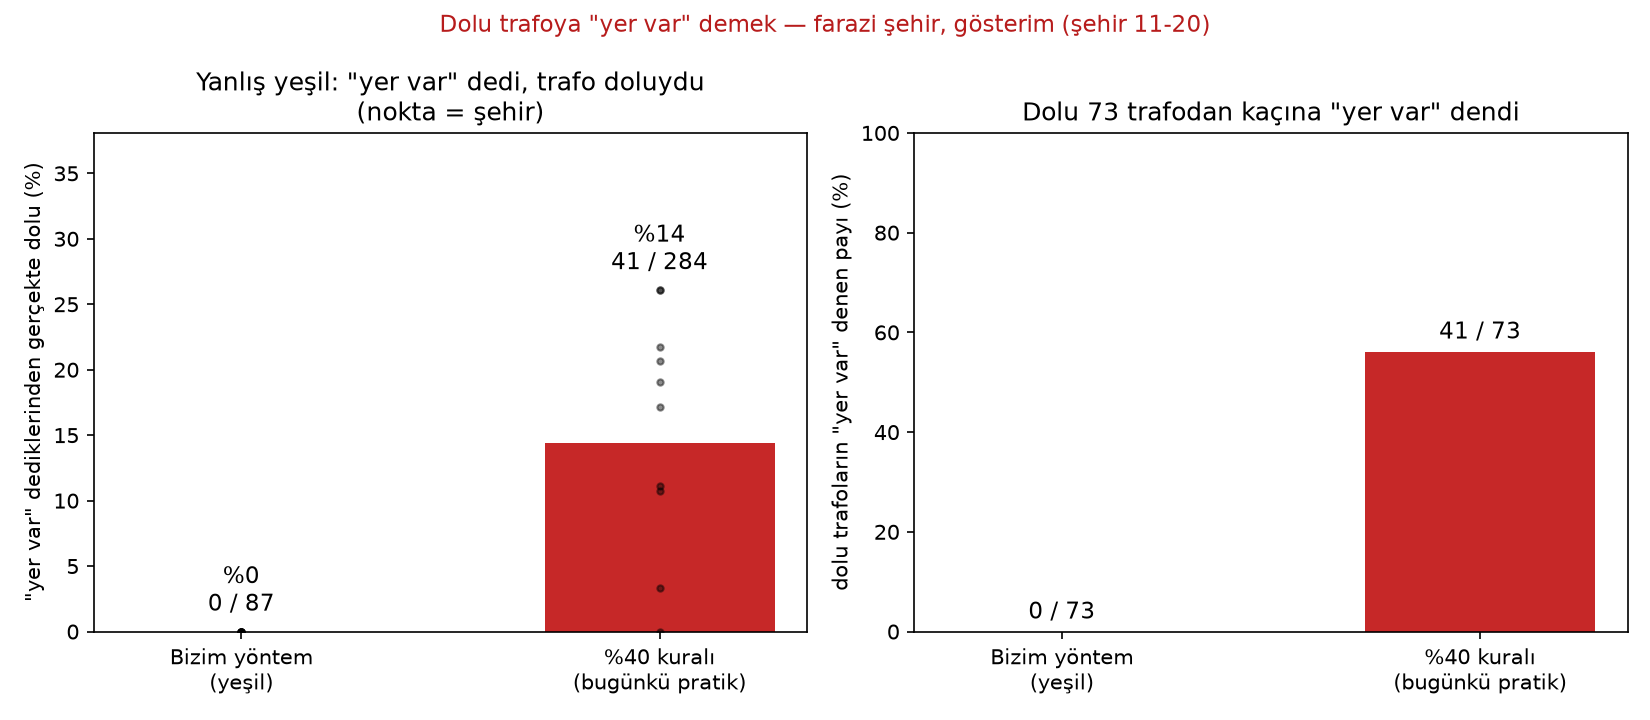
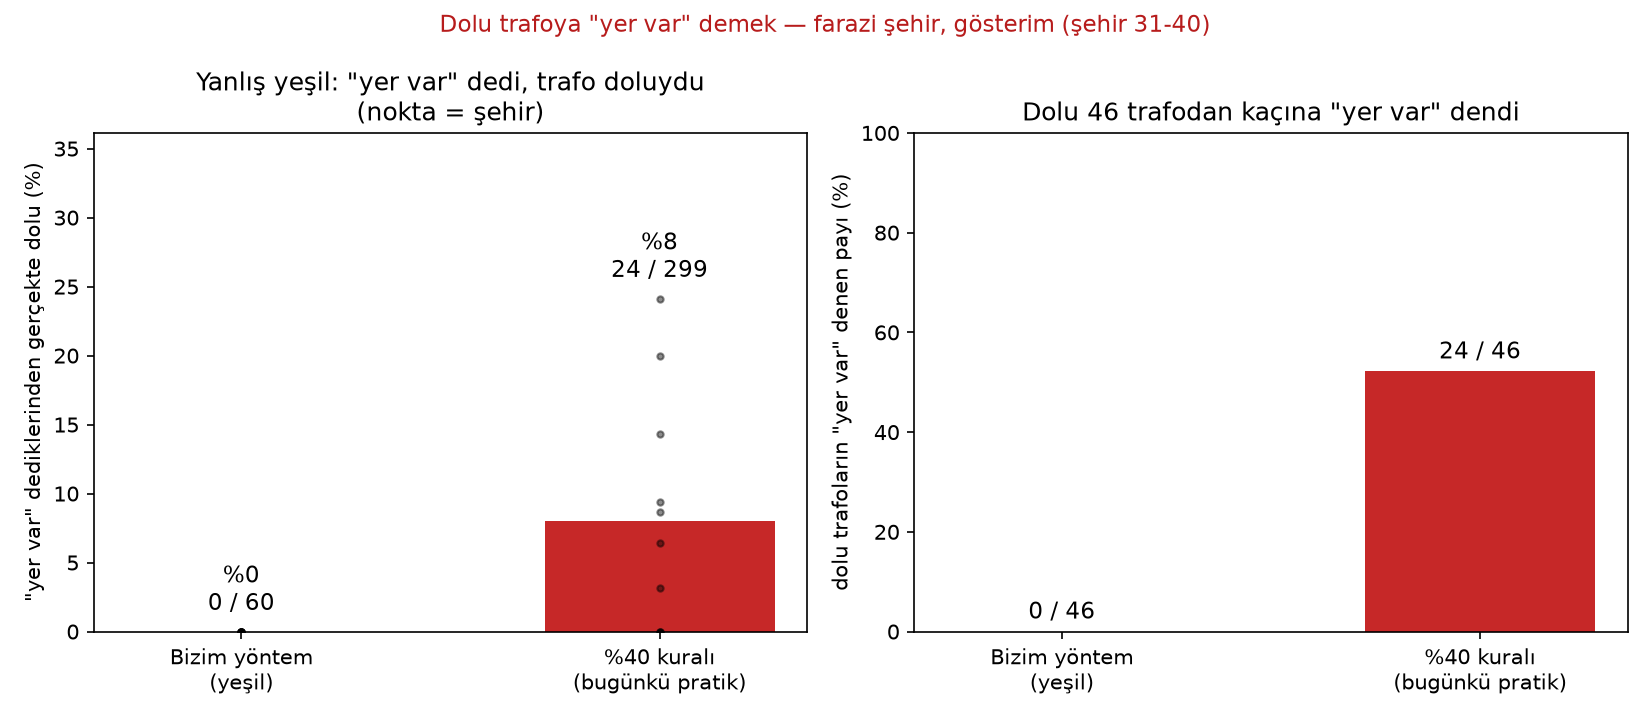
sunum: akış yük haritası öne (KARAR 10:16) — 8 ekran, slayt sırası sorun → yük → neden inanılır → panel → pilot/maliyet → jüri; yük rakamları B-Y2 / 41–50 (12/12, 124 uyarı; 211'de 0; %11,4 / %23,9, +%11), model cümlesi ve jüri 14 (KARAR 10:43); '%27 → %19' ve '%4' kalktı; kilit grafik 31–40 ile yen

diff --git a/docs/sunum/ekranlar.md b/docs/sunum/ekranlar.md
@@ -1,47 +1,53 @@
-# Sunum — 7 ekran (haritanın içinde)
+# Sunum — 8 ekran (haritanın içinde)
 
-Biçim kararı: Volkan 17:32 (can.md BİLGİ, civan.md). Sunum Civan'ın harita uygulamasının içinde 7 kısa ekran (0–6). Her ekranda tek cümle, tek görsel, en fazla bir rakam. Teknik terim yok (arketip, kVA, P10 sunum dilinde geçmez). **PDF yedeği bu metinden.**
+Biçim kararı: Volkan 17:32 (can.md BİLGİ, civan.md). Sunum Civan'ın harita uygulamasının içinde 8 kısa ekran (0–7). Her ekranda tek cümle, tek görsel, en fazla bir rakam. Teknik terim yok (arketip, kVA, P10 sunum dilinde geçmez). **PDF yedeği bu metinden.**
 
+- Akış **yük haritası öne** (Volkan 09:43; sıra KARAR 10:16): sorun (0–3) → yük haritası (4) → neden inanılır (5) → panel güvenli uçlar (6) → pilot ve maliyet (7) → jüri cevapları ([konusma-notu.md](konusma-notu.md)). Civan'ın pitch şablonu aynı sıraya uyar (civan.md 09:43).
+- Rakam kaynağı `dashboard/icerik.json` (KARAR 09:43). Yük rakamları tepe modeli B-Y2, hiç bakılmamış sınav şehirleri 41–50; panel rakamları 31–40; ikisi de üretici 1.5, farazi, gösterim (KARAR 10:26, 10:43).
 - Rakamların etiketi her ekranda yazılı; ayrıntılı kaynak [slaytlar.md](slaytlar.md) "Kaynak slaydı".
-- Konuşma: BUILD taslağı [../konusma-notu-taslak.md](../konusma-notu-taslak.md); dürüstlük cümleleri [konusma-notu.md](konusma-notu.md).
-- Süre hedefi 6 dk [Yorum].
+- Konuşma: BUILD taslağı [../konusma-notu-taslak.md](../konusma-notu-taslak.md) (eski sıra); dürüstlük cümleleri [konusma-notu.md](konusma-notu.md).
+- Süre hedefi 6–7 dk [Yorum].
 
 | Ekran | Cümle (ekranda yazan) | Görsel | Tek rakam ve etiketi | Süre |
 |---|---|---|---|---|
 | **0 Açılış** | "Bu sokakta kaç ev daha çatısına güneş paneli takabilir? Kıb-Tek bilmiyor." | Bir sokak, çatılar | — | 20 sn |
 | **1 Kıb-Tek** | "Kıb-Tek, Kuzey Kıbrıs'ta elektriği üreten ve evlere dağıtan devlet kurumu." | Ada haritası | — | 15 sn |
-| **2 Mahalle şebekesi** | "Her mahallenin köşesinde gri bir kutu (trafo) var; elektriğin evden önceki son durağı. Kıb-Tek bu kutuları izlemiyor; dolu mu boş mu bilmiyor. Bu yüzden temkinli: evler sırada bekliyor." | Direk, kutu, evler | **~2.670 bekleyen başvuru** [Kaynaklı: KTTO raporu, Mart 2023; adres doğrulanmadı] | 50 sn |
-| **3 Fikrimiz** | "Her kutuya cihaz takmak çok pahalı. Birkaçını ölçüyoruz, gerisini tahmin ediyoruz; tahminin ne kadar emin olduğunu da söylüyoruz." | "Noktalar çoğalıyor": önce bir ölçülen trafo, sonra birkaçı, sonra tahmin adaya yayılıyor (ölçülen dolu, tahmin soluk; yeşil / sarı / kırmızı; "gösterim") — 3 → 5 geçişi | İngiltere aynı yöntemle ~%80 tuttu [Kaynaklı: Ofgem, WPD LV Templates 2015] | 45 sn |
-| **4 Neden inanılır** (güven merdiveni) | "Kıbrıs'ı ölçemiyoruz. Yöntemi ölçebildiğimiz her yerde sınadık." | Dört basamak; manşet büyük | **İspanya, 29 gerçek trafo: %25 → %10** (yalnız müşteri sayısıyla → fatura toplamıyla, ortanca hata) [Hesap: PR #10, EDP Oviedo 2018, CC BY] | 2 dk |
-| **5 Canlı harita** | "Bir kutuya tıklayın: yaklaşık N ev daha sığar (A–B); yeşilse ilk 2 başvuru güvenle. Bugünkü kural ne diyor, yanında." (N = `kac_ev_orta`, A–B = karamsar–iyimser, "%80 ihtimalle A–B ev"; "en az" yazılmaz — karar masası 19:13) | Canlı harita; yanında kilit grafik [kilit_yanlis_yesil.png](kilit_yanlis_yesil.png) | **Dolu trafoya "yer var": bugünkü %40 kuralı 46 dolu trafonun 24'üne, biz hiçbirine** (yanlış yeşil: biz 0/60) [Hesap: sınav şehirleri 31–40, üretici 1.5; karar masası Mac koşusu (volkan.md KARAR 01:20) ve ADR-0019 ölçümü (docs/log/2026-11-01-volkan-panel-guven-kapisi.md); `dashboard/icerik.json`] — gösterim. Kilit grafik PNG hâlâ eski şehirlerden (11–20): 1.5 ile yeniden üretilecek, **BEKLİYOR** | 1 dk |
-| **6 Pilot** | "Harita için Kıb-Tek'ten yeni veri istemiyoruz: abone sayısı ve fatura toplamı zaten elinde. Pilotta ilk ölçeceğimiz şey trafonun çıkış gerilimi; o tek ölçüm 'dolu' dediğimiz trafolardaki yanılmayı %27'den %19'a indirir." (karar masası 20:47) | Takvim + cihaz | **Ada geneli için 120–170 trafo** [Hesap: araştırma günlüğü §7; İngiltere'de ölçülen pay %2,6]; cümledeki %27 → %19 [Hesap: bilginin değeri denemesi, farazi şehir 11–20, kusursuz bilgi üst sınırı; docs/log/2026-10-31-volkan-faz3.md] | 30 sn |
+| **2 Mahalle şebekesi** | "Her mahallenin köşesinde gri bir kutu (trafo) var; elektriğin evden önceki son durağı. Kıb-Tek bu kutuları izlemiyor; dolu mu boş mu bilmiyor. Bu yüzden temkinli: evler sırada bekliyor." | Direk, kutu, evler | **~2.670 bekleyen başvuru** [Kaynaklı: KTTO raporu, Mart 2023; adres doğrulanmadı] | 45 sn |
+| **3 Fikrimiz** | "Her kutuya cihaz takmak çok pahalı. Birkaçını ölçüyoruz, gerisini tahmin ediyoruz; her kutu için iki şey söylüyoruz: ne kadar dolu, güneşe ne kadar yer var. Ne kadar emin olduğumuzu da." | "Noktalar çoğalıyor": önce bir ölçülen trafo, sonra birkaçı, sonra tahmin adaya yayılıyor (ölçülen dolu, tahmin soluk; "gösterim") — 3 → 5 geçişi | İngiltere aynı yöntemle ~%80 tuttu [Kaynaklı: Ofgem, WPD LV Templates 2015] | 40 sn |
+| **4 Yük haritası** | "Yılın en yoğun saatinde (çoğunlukla yaz akşamı) hangi kutu dolu? Dolu olanı kaçırmadan, önce nereye bakacağınızı söylüyoruz." | Canlı harita, yük katmanı: doluluk renkleri, "ön" etiketi, bir kutuya tıklayınca akşam gerilimi | **%80'den dolu 12 kutunun 12'si yakalandı** (bedeli: her 10 uyarıdan 1'i gerçek; "yeterli" dediğimiz 211 kutunun hiçbiri akşam 207 voltun altına inmedi) [Hesap: sınav şehirleri 41–50 (hiç bakılmamış), üretici 1.5, ölçülmeyen 280 trafo, tepe modeli B-Y2; docs/log/2026-11-01-can-eszamanlilik.md; `dashboard/icerik.json`] — gösterim | 1 dk |
+| **5 Neden inanılır** (güven merdiveni) | "Kıbrıs'ı ölçemiyoruz. Yöntemi ölçebildiğimiz her yerde sınadık." | Dört basamak; manşet büyük | **İspanya, 29 gerçek trafo: %25 → %10** (öğlen yükü; yalnız müşteri sayısıyla → fatura toplamıyla, ortanca hata) [Hesap: PR #10, EDP Oviedo 2018, CC BY] | 1,5 dk |
+| **6 Panel: güvenli uçlar** | "Bir kutuya tıklayın: yaklaşık N ev daha sığar (A–B); yeşilse ilk 2 başvuru güvenle. Bugünkü kural ne diyor, yanında." (N = `kac_ev_orta`, A–B = karamsar–iyimser, "%80 ihtimalle A–B ev"; "en az" yazılmaz — karar masası 19:13) | Canlı harita, panel katmanı; yanında kilit grafik [kilit_yanlis_yesil.png](kilit_yanlis_yesil.png) | **Dolu trafoya "yer var": bugünkü %40 kuralı 46 dolu trafonun 24'üne, biz hiçbirine** (yanlış yeşil: biz 0/60) [Hesap: sınav şehirleri 31–40, üretici 1.5; karar masası Mac koşusu (volkan.md KARAR 01:20) ve ADR-0019 ölçümü (docs/log/2026-11-01-volkan-panel-guven-kapisi.md); `dashboard/icerik.json`] — gösterim | 1 dk |
+| **7 Pilot ve maliyet** | "Harita için Kıb-Tek'ten yeni veri istemiyoruz: abone sayısı ve fatura toplamı zaten elinde. Pilotta ilk ölçeceğimiz şey trafonun çıkış gerilimi." | Takvim + cihaz | **120–170 trafo, ~2,2–3,2 milyon TL: her trafoya cihaz takmanın yüzde biri** [Hesap: araştırma günlüğü §7; docs/log/2026-11-01-can-maliyet.md] | 40 sn |
 
-## Ekran 4: dört basamak (ekranda kısa, konuşmada açılır)
+Eski rakamlar kullanılmaz: "%27 → %19" (eski yanlış kırmızı ölçüsü; ADR-0017'den beri kırmızı yok, KARAR 10:16), yük için %5,8 / 16/16 / 87 uyarı / 233 (eski model ve şehirler, KARAR 10:26).
+
+## Ekran 4: yük haritası (ekranda kısa, konuşmada açılır)
+- Yılın tepesi "ön" etiketli: deneme şehrinde hata ortanca %11,4, en kötü onda birlik dilimde %23,9; tahmin gerçeğin ortanca %11 üstünde (güvenli yön), gerçek hiçbir trafoda bandın üstüne çıkmadı [Hesap: ekran 4'teki küme].
+- Model cümlesi (KARAR 10:43): "Tepe modelimiz Kıbrıs evlerinin gerçek sıcaklık duyarlılığını kullanır; deneme şehirlerinde bu yüzden yaklaşık %11 fazla tahmin eder, yani güvenli tarafta; gerçek bahar verisinde hata %15." [eğim: 20 Kıbrıs evi, docs/log/2026-11-01-can-eszamanlilik.md; gerçek: İspanya Mayıs tepesi %15,4 / %36,1]
+- Bedel: temkinli uç çok uyarı veriyor (124 uyarının 12'si gerçek); harita ret değil "önce bak" listesi.
+
+## Ekran 5: dört basamak (ekranda kısa, konuşmada açılır)
 
 Hepsi "hiç model kullanmadan yapılan basit hesaba göre ne kadar iyi" diye anlatılır.
 
-1. **Farazi Kıbrıs şehri** (cevabını bildiğimiz deney; gösterim, üst sınır).
-   - Faturayla öğlen yükü hatası ortanca %11,3, en kötü onda birlik dilimde %28 [Hesap: sınav şehirleri 31–40, üretici 1.5; karar masası Mac koşusu (volkan.md KARAR 01:20) ve ADR-0019 ölçümü (docs/log/2026-11-01-volkan-panel-guven-kapisi.md); `dashboard/icerik.json`].
-   - Cümle: "Deneme şehrinde hata, gerçek veride (İspanya) gördüğümüzle aynı seviyede." (Eski 11–20 kıyası %3,8 / %20,6 kullanılmaz; üretici 1.5'te faturasız koşu yok.)
-2. **İspanya** (manşet): %25 → %10, gerçek veri. Cümle (karar masası 22:21): "Kıb-Tek'in zaten elindeki fatura toplamı girince gerçek trafolarda hata %25'ten %10'a iniyor; biz bunun üstüne ne kadar emin olduğumuzu ve panelin sığıp sığmadığını söylüyoruz." "Modelimiz indirdi" denmez (%10 faturanın değeri). Parantez: "(aralığımız İspanya'da %82,1 tutuyor)" [gerçek veri, İspanya 28 trafo; docs/log/2026-11-01-volkan-faz7-kalibrasyon.md].
+1. **İspanya, öğlen yükü** (manşet): %25 → %10, gerçek veri. Cümle (karar masası 22:21): "Kıb-Tek'in zaten elindeki fatura toplamı girince gerçek trafolarda hata %25'ten %10'a iniyor; biz bunun üstüne ne kadar emin olduğumuzu ve panelin sığıp sığmadığını söylüyoruz." "Modelimiz indirdi" denmez (%10 faturanın değeri). Parantez: "(aralığımız İspanya'da %82,1 tutuyor)" [gerçek veri, İspanya 28 trafo; docs/log/2026-11-01-volkan-faz7-kalibrasyon.md].
+2. **İspanya, yılın tepesi** (yük): Mayıs tepesinde hata ortanca %15, en kötü onda birlik dilimde %36 [gerçek veri: %15,4 / %36,1; docs/log/2026-11-01-volkan-yuk-tepe-on.md]; Kıb-Tek'in tepe kaydı gelince daralır.
 3. **İngiltere** (gerilim): "6 gerçek hattın 5'inde ölçülen yükselme hesabın güvenli sınırının altında; birinde küçük gördük → canlıda yeşil önce pilotla sınanır" [Hesap: PR #11 + docs/log/2026-10-31-volkan-faz3-ukpn-geritest.md; UKPN, CC BY] (karar masası 18:46, ADR-0011).
-4. **Kıbrıs pilotu**: doğruluğu pilot söyler.
+4. **Farazi Kıbrıs şehri** (cevabını bildiğimiz deney; gösterim, üst sınır): faturayla öğlen yükü hatası ortanca %11,3, en kötü onda birlik dilimde %28 [Hesap: sınav şehirleri 31–40, üretici 1.5; `dashboard/icerik.json`]. Cümle: "Deneme şehrinde hata, gerçek veride (İspanya) gördüğümüzle aynı seviyede." Kıbrıs'taki doğruluğu pilot söyler (ekran 7).
 
-## Ekran 5: sayının dili (karar masası 19:13)
+## Ekran 6: sayının dili (karar masası 19:13)
 - Manşet orta sayı: "yaklaşık 4 ev"; yanında bant "(2–7)", açılımı "%80 ihtimalle 2–7 ev" [Yorum: örnek değer, rakam değil]. "En az … ev" hiçbir yerde yazılmaz: bandın alt ucu taban değil, gerçek trafoların ~%10–15'inde altına düşer.
 - Vaat renkte: yeşilde "ilk 2 başvuru güvenle sığar (≥ %98)"; sarıda "önce ölç"; kırmızıda "ölç ya da güçlendir". Sarı ve kırmızıda sayı yalnız bant.
 
-## Ekran 5: kilit cümle
+## Ekran 6: kilit cümle
 "Dolu trafoya 'yer var' demek en pahalı hata. Bugünkü %40 kuralı 46 dolu trafonun 24'üne 'yer var' diyor. Bizim 60 yeşilimizin hiçbiri dolu değil." [Hesap: sınav şehirleri 31–40, üretici 1.5; karar masası Mac koşusu (volkan.md KARAR 01:20) ve ADR-0019 ölçümü (docs/log/2026-11-01-volkan-panel-guven-kapisi.md); `dashboard/icerik.json`]; gösterim
 
-Grafik dosyası (kilit_yanlis_yesil.png) eski şehirlerden (0/87 ↔ 41/284, sınav 11–20); üretici 1.5 şehirleriyle yeniden üretilecek — **BEKLİYOR**.
-
-## Ekran 5: söylenecek bedel
+## Ekran 6: söylenecek bedel
 Rakamlar [Hesap: sınav şehirleri 31–40, üretici 1.5; karar masası Mac koşusu (volkan.md KARAR 01:20) ve ADR-0019 ölçümü (docs/log/2026-11-01-volkan-panel-guven-kapisi.md); `dashboard/icerik.json`]; gösterim. Eski 11–20 rakamları (yeşil %25, sarı %62, kırmızıların %27'si, 87 yeşil, 0/21) kullanılmaz.
 - Yeşil az ve bu bilerek: ölçülmeyen 280 trafonun 60'ı yeşil, hiçbiri gerçekte dolu değil. — **0/60**
 - Trafoların çoğunda emin değiliz: karar başvuru gelince verilir ya da önce ölçülür. — **renksiz %76**
 - "Büyük olasılıkla dolu" uyarısı ret değil, "ölç ya da güçlendir": 22 uyarının 15'i gerçekten dolu. — **15/22 (%68)**
-- Kaç ev hatası üretici 1.5 şehirlerinde raporlanmadı (eski 11–20: 2 ev) — **BEKLİYOR**, eski rakam kullanılmaz
+- Kaç ev hatası: 31–40'ta ortası 2 ev [Hesap: Can, Windows, `sinav.py faz3 --aralik 31-40`, n = 234; dashboard'da yok, karar masası teyit etmeden kullanılmaz]; eski 11–20 rakamı kullanılmaz
 
 ## PDF yedeği
-Aynı 7 ekran, her biri bir sayfa: cümle + görselin ekran görüntüsü + rakam ve etiketi. Ekran görüntüleri Civan'ın uygulamasından (Faz 4); son sayfa kaynaklar ([slaytlar.md](slaytlar.md) "Kaynak slaydı").
+Aynı 8 ekran, her biri bir sayfa: cümle + görselin ekran görüntüsü + rakam ve etiketi. Ekran görüntüleri Civan'ın uygulamasından (Faz 4); son sayfa kaynaklar ([slaytlar.md](slaytlar.md) "Kaynak slaydı").

diff --git a/docs/sunum/slaytlar.md b/docs/sunum/slaytlar.md
@@ -1,6 +1,8 @@
 # Slayt listesi (iskelet)
 
-Hikâye: **güven merdiveni** (karar masası 17:00). Tek cümle: *"Kıbrıs'ı ölçemiyoruz; yöntemi ölçebildiğimiz her şeyde kanıtlıyoruz, sonra uyguluyoruz."* Dört basamak, her birinde tek iddia + tek rakam, hepsi "saf tahmine göre ne kadar iyi" cinsinden. Manşet rakam: **İspanya %25 → %10.**
+Akış: **yük haritası öne** (Volkan 09:43; sıra KARAR 10:16): sorun → yük haritası (doluluk, yılın tepesi "ön", akşam 207 V) → neden inanılır (İspanya öğlen %25 → %10, Mayıs tepesi %15, bant %82) → panel güvenli uçlar (0/60, 15/22, renksiz %76, 24/46 ↔ 0) → pilot ve maliyet → jüri cevapları. Tek cümle: *"Kıbrıs'ı ölçemiyoruz; yöntemi ölçebildiğimiz her şeyde kanıtlıyoruz, sonra uyguluyoruz."* Her slaytta tek iddia + tek rakam. Manşet rakam: **İspanya %25 → %10.**
+
+Rakam kaynağı `dashboard/icerik.json` (KARAR 09:43). Yük rakamları yeni tepe modeli B-Y2, hiç bakılmamış sınav şehirleri 41–50 (KARAR 10:26, 10:43); panel rakamları 31–40. İkisi de üretici 1.5, farazi, **gösterim**. Eski yük rakamları (%5,8 / %15,1; 16/16, 87 uyarı; "yeterli" 233) ve "%27 → %19" (eski yanlış kırmızı ölçüsü, KARAR 10:16) kullanılmaz.
 
 Süre hedefi 5–7 dk; dakika sütunu kaba [Yorum].
 
@@ -8,18 +10,16 @@ Süre hedefi 5–7 dk; dakika sütunu kaba [Yorum].
 |---|---|---|---|---|
 | 1 | Sorun | Kuzey'de çatı güneşi başvuruları bekliyor; Kıb-Tek mahalle trafolarını göremiyor | ~2.670 bekleyen başvuru, çoğu 5–8 kW; alçak/orta gerilimde izleme sistemi yok [Kaynaklı: KTTO raporu, Mart 2023; adres doğrulanmadı] (karar masası 17:38; bulunursa değişir) | 0,5 |
 | 2 | Neden şimdi | Güney bağladı, şimdi üretimi kısıyor | 2025'te dağıtıma bağlı güneşin %47,44'ü kısıldı, Ocak–Mayıs 2026 %65 [Kaynaklı: pv-magazine.com 13.01.2026 ve 15.06.2026] | 0,5 |
-| 3 | Fikir | Az trafoyu ölç, gerisini şablonla tahmin et (İngiltere'nin yöntemi) | İngiltere 824 trafoyu (%2,6) ölçüp gerisini ~%80 doğrulukla tahmin etti; başka şirketlerin 284 trafosunda %80–90 [Kaynaklı: Ofgem WPD LV Templates raporları 2013, 2015] | 0,75 |
-| 4 | Bizim uyarlamamız: fotoğraf değil film | Kurulumcu gerilimi tek noktada, tek gün ölçüyor; biz trafonun gün ve mevsim boyu davranışını tahmin edip "kaç ev daha eklenince sınıra gelir"i önceden söylüyoruz | Hedef: ilkbahar öğlen en düşük yük (11–14) ve hat ucu gerilimi; planlama sınırı 259 V, inverter 264 V'ta kapanır [Kaynaklı: CLAUDE.md / ADR-0002] | 0,75 |
-| 5 | Güven merdiveni — basamak 1: farazi şehir (kontrollü gerçek) | Cevabı bildiğimiz şehirde yöntem çalışıyor | Öğlen yük hatası ortanca / en kötü onda birlik dilim (faturalı): %11,3 / %28; yanında İspanya %10 [Hesap: sınav şehirleri 31–40, üretici 1.5; karar masası Mac koşusu (volkan.md KARAR 01:20) ve ADR-0019 ölçümü (docs/log/2026-11-01-volkan-panel-guven-kapisi.md); `dashboard/icerik.json`] — **üst sınır (gösterim)**, manşet İspanya (karar masası 17:38). Eski 11–20 rakamları (%3,8 / %8,0, %20,6 / %50,7) ve %8,6 kullanılmaz | 0,5 |
-| 6 | Basamak 2: İspanya (yük, gerçek veri) — **MANŞET** | Hiç görmediğimiz 29 gerçek trafoda, Kıb-Tek'in zaten elinde olan abone sayısı + faturayla | Yalnız müşteri sayısıyla ~%25, faturayla ~%10 ortanca hata [Hesap: PR #10, docs/log/2026-10-31-volkan-edp-gercek.md; veri Arboleya vd. 2019, CC BY] | 0,75 |
-| 7 | Basamak 3: İngiltere (gerilim, gerçek veri) | Gerilim hesabımız gerçek hatlarda tutuyor; tutmadığı yer yüzünden yeşil önce pilotla sınanır | 6 gerçek hattın 5'inde ölçülen yükselme hesabın güvenli sınırının altında; birinde (Bancroft, panelli kol) küçük gördük [Hesap: PR #11 + docs/log/2026-10-31-volkan-faz3-ukpn-geritest.md; veri UKPN 2015, CC BY] (karar masası 18:46) | 0,5 |
-| 8 | Basamak 4: Kıbrıs pilotu (saha) | Kıbrıs'taki doğruluğu pilot söyler; ilk ölçülecek şey trafonun çıkış gerilimi | Çıkış gerilimi bilinince "dolu" dediğimiz trafolardaki yanılma %27 → %19 [Hesap: bilginin değeri denemesi, farazi 11–20, kusursuz bilgi üst sınırı; docs/log/2026-10-31-volkan-faz3.md] (karar masası 20:47; ekran 6). 120–170 trafo ölç (adadaki ~6.400 trafonun ~%2'si) [Hesap: araştırma günlüğü §7; ~6.400 trafo Güney'den vekil, Kıb-Tek sayısı BULAMADIM]; taşınabilir cihazla ~2,2–3,2 milyon TL (~40–57 bin €, işçilik dahil), ilkbaharda [Hesap: docs/log/2026-11-01-can-maliyet.md; aşağıda "Maliyet"; eski "~20 bin € + pens" yalnız donanımdı]; kör test 10 trafo, başarı: gerçek kırmızıların ≥ %90'ı yakalanır, öğlen yük hatası ±%20 [Yorum: validation.md] | 0,5 |
-| 9 | Canlı harita | Her trafo yeşil / sarı / kırmızı, "ölçülmedi" etiketiyle | Faz 4 paneli (Civan); farazi şehirde "SAHTE VERİ / gösterim" yazısı — **BEKLİYOR** | 1 |
-| 10 | %40 kuralıyla yan yana | Bugünkü kural ("trafo gücünün %40'ı") ile modelin yanlış yeşili aynı trafolarda yan yana | **KİLİT GRAFİK**: dolu trafoya "yer var" — %40 kuralı 46 dolu trafonun 24'üne, biz hiçbirine; yanlış yeşil 0/60 [Hesap: sınav şehirleri 31–40, üretici 1.5; karar masası Mac koşusu (volkan.md KARAR 01:20) ve ADR-0019 ölçümü (docs/log/2026-11-01-volkan-panel-guven-kapisi.md); `dashboard/icerik.json`] — **gösterim**. Bedeli söylenir: ölçülmeyenlerin %76'sı renksiz (önce ölç ya da başvuruda karar); "büyük olasılıkla dolu" 22 uyarının 15'i gerçekten dolu [Hesap: aynı]. [kilit_yanlis_yesil.png](kilit_yanlis_yesil.png) eski şehirlerden (0/87 ↔ 41/284, 11–20): 1.5 ile yeniden üretilecek — **BEKLİYOR**. Eski rakamlar (0/87, 41/73, 41/284, %25 / %62 / %27, 0/21, %42, %63) kullanılmaz | 0,5 |
-| 11 | İtirazlar ve triyaj | Ret değil triyaj; son karar insanın | Aşağıda "İtiraz slaydı" | 0,5 |
-| 12 | Kaynaklar | Her rakamın nereden geldiği | Aşağıda "Kaynak slaydı" | (gösterilmez, soru gelirse) |
+| 3 | Fikir | Az trafoyu ölç, gerisini şablonla tahmin et (İngiltere'nin yöntemi); her trafoya iki soru: ne kadar dolu, güneşe ne kadar yer var | İngiltere 824 trafoyu (%2,6) ölçüp gerisini ~%80 doğrulukla tahmin etti; başka şirketlerin 284 trafosunda %80–90 [Kaynaklı: Ofgem WPD LV Templates raporları 2013, 2015]. İki an: yılın tepesi (çoğunlukla yaz akşamı; sınır trafo gücü ve 207 V) ve bahar öğleni (11–14; sınır 259 V, inverter 264 V'ta kapanır) [Kaynaklı: ADR-0002, ADR-0014] | 0,75 |
+| 4 | Yük haritası — trafo ne kadar dolu | Hangi trafonun dolu olduğunu kaçırmadan "önce buraya bak" listesi veriyoruz | **%80'den dolu 12/12 yakalanır**; bedeli: 124 uyarının 12'si gerçek (her 10 uyarıdan 1'i) [Hesap: sınav şehirleri 41–50 (hiç bakılmamış), üretici 1.5, ölçülmeyen 280 trafo, tepe modeli B-Y2; docs/log/2026-11-01-can-eszamanlilik.md; `dashboard/icerik.json`] — **gösterim**. Yılın tepesi "ön" etiketiyle: hata ortanca %11,4, en kötü onda birlik dilim %23,9; tahmin gerçeğin ortanca %11 üstünde (güvenli yön), gerçek hiçbir trafoda bandın üstüne çıkmadı [Hesap: aynı] | 1 |
+| 5 | Yük haritası — akşam gerilimi | "Yeterli" dediğimiz trafo akşam 207 voltun altına inmiyor | **"Yeterli" 211 trafonun 0'ı** gerçekte 207 V altında; altına inen 2 trafonun 2'si yakalandı; 69 uyarının 2'si gerçek [Hesap: aynı küme] — **gösterim** | 0,5 |
+| 6 | Neden inanılır — güven merdiveni | Yöntemi ölçebildiğimiz her yerde sınadık; farazi şehir üst sınırdır | **MANŞET — İspanya, 29 gerçek trafo, öğlen yükü: yalnız müşteri sayısıyla ~%25, faturayla ~%10 ortanca hata** [Hesap: PR #10, docs/log/2026-10-31-volkan-edp-gercek.md; veri Arboleya vd. 2019, CC BY]. Konuşmada açılan basamaklar: İspanya yılın (Mayıs) tepesi %15,4 / %36,1 [gerçek veri; docs/log/2026-11-01-volkan-yuk-tepe-on.md]; %80 aralık gerçekte %82,1 tuttu [gerçek veri, 28 trafo; docs/log/2026-11-01-volkan-faz7-kalibrasyon.md]; İngiltere gerilim: 6 gerçek hattın 5'inde ölçülen yükselme hesabın güvenli sınırının altında, birinde (Bancroft) küçük gördük → yeşil önce pilotla sınanır [Hesap: PR #11 + docs/log/2026-10-31-volkan-faz3-ukpn-geritest.md; UKPN 2015, CC BY]; deneme şehrinde öğlen hatası %11,3 / %28, gerçekle aynı seviye [Hesap: sınav 31–40, üretici 1.5; `dashboard/icerik.json`; gösterim, üst sınır] | 1,25 |
+| 7 | Panel — güvenli uçlar (canlı harita + kilit grafik) | Dolu trafoya "yer var" demiyoruz; bugünkü %40 kuralı diyor | **KİLİT GRAFİK: dolu trafoya "yer var" — %40 kuralı 46 dolu trafonun 24'üne, biz hiçbirine; yanlış yeşil 0/60** [Hesap: sınav şehirleri 31–40, üretici 1.5; karar masası Mac koşusu (volkan.md KARAR 01:20) ve ADR-0019 ölçümü (docs/log/2026-11-01-volkan-panel-guven-kapisi.md); `dashboard/icerik.json`] — **gösterim**. Bedeli söylenir: ölçülmeyenlerin %76'sı renksiz (önce ölç ya da başvuruda karar); "büyük olasılıkla dolu" 22 uyarının 15'i gerçekten dolu [Hesap: aynı]. [kilit_yanlis_yesil.png](kilit_yanlis_yesil.png). Canlı harita (Faz 4, Civan; farazi şehirde "SAHTE VERİ / gösterim") — **BEKLİYOR**. Eski rakamlar (0/87, 41/73, 41/284, %25 / %62 / %27, 0/21, %42, %63) kullanılmaz | 1 |
+| 8 | Pilot ve maliyet | Kıbrıs'taki doğruluğu pilot söyler; ilk ölçülecek şey trafonun çıkış gerilimi | 120–170 trafo ölç (adadaki ~6.400 trafonun ~%2'si) [Hesap: araştırma günlüğü §7; ~6.400 trafo Güney'den vekil, Kıb-Tek sayısı BULAMADIM]; taşınabilir cihazla ~2,2–3,2 milyon TL (~40–57 bin €, işçilik dahil), ilkbaharda; her trafoya cihaz takmanın ~%1'i [Hesap: docs/log/2026-11-01-can-maliyet.md; aşağıda "Maliyet"]; kör test 10 trafo, başarı: gerçek kırmızıların ≥ %90'ı yakalanır, öğlen yük hatası ±%20 [Yorum: validation.md] | 0,75 |
+| 9 | İtirazlar ve jüri cevapları | Ret değil triyaj; son karar insanın | Aşağıda "İtiraz slaydı"; jüri cevapları [konusma-notu.md](konusma-notu.md) | 0,5 |
+| 10 | Kaynaklar | Her rakamın nereden geldiği | Aşağıda "Kaynak slaydı" | (gösterilmez, soru gelirse) |
 
-## İtiraz slaydı (11)
+## İtiraz slaydı (9)
 
 [ADR-0005](../decisions/adr-0005-triyaj-ret-degil.md), [ADR-0010](../decisions/adr-0010-yesil-karari-marj-guven-kumulatif.md).
 
@@ -32,7 +32,7 @@ Süre hedefi 5–7 dk; dakika sütunu kaba [Yorum].
 | **Komşu etkisi:** bir onay komşunun payını yer | Onaylar bağımsız sayılmaz; kalan pay her onaydan sonra yeniden hesaplanır (sunum sonrası, sözleşme 1.3) |
 | **Zamanla bozulma:** paneller arttıkça şablon eskir | Ölçüm cihazları her ilkbahar sarılara dolaşır; şablon her yıl yenilenir [Yorum] |
 
-## Maliyet (slayt 8'e ek; pitch şablonunun maliyet kutusu, dashboard)
+## Maliyet (slayt 8; pitch şablonunun maliyet kutusu, dashboard)
 
 Kaba hesap; kesinlik iddiası yok. Ayrıntı ve dahil olmayanlar: [maliyet günlüğü](../log/2026-11-01-can-maliyet.md).
 
@@ -49,7 +49,9 @@ Söylenebilecek iki cümle:
 
 Yok: geliştirme / bakım maliyeti, geri ödeme, emisyon etkisi — **BEKLİYOR** (tarife ve emisyon katsayısı depoda yok; geliştirme maliyeti ekibin kararı).
 
-## Kaynak slaydı (12)
+## Kaynak slaydı (10)
+
+- **Kıbrıs evlerinin sıcaklık duyarlılığı (yük modeli yaz eğimi):** 20 konut prosumer, Güney Kıbrıs, 2016, Zenodo 23043383, CC BY 4.0 (`data/raw/kibris-20-prosumer/KAYNAK.txt`; [eşzamanlılık günlüğü](../log/2026-11-01-can-eszamanlilik.md)).
 
 - **İngiltere yöntemi:** Ofgem, WPD "LV Network Templates" ilerleme raporu (Mayıs 2013) ve ödül başvurusu (Mayıs 2015) — https://www.ofgem.gov.uk/sites/default/files/docs/2013/09/ppr_wpd_lv_templates_may2013.pdf · https://www.ofgem.gov.uk/sites/default/files/docs/2015/05/final_-_sdrc_reward_submission_v1.7_redacted.pdf
 - **İngiltere gerilim verisi:** UK Power Networks, "Validation of PV Connection Assessment Tool" kapanış raporu v1.1, Ofgem, Mart 2015 — https://www.ofgem.gov.uk/ofgem-publications/93938/pvtoolcdrfinal-pdf ; veri London Datastore, CC BY 4.0. Dış çapalar: bara gerilimi tasarım varsayımı 248 V; gündüz en düşük talep müşteri başına 200–400 W; faz dengesizliği kentsel %25 / kırsal %50 ([Faz 1 günlüğü](../log/2026-10-31-volkan-faz1.md)).

diff --git a/docs/sunum/README.md b/docs/sunum/README.md
@@ -4,10 +4,10 @@ Klasör Can'ın ([CONTRIBUTING](../../CONTRIBUTING.md) sahiplik tablosu); hikây
 
 | Dosya | Ne |
 |---|---|
-| [ekranlar.md](ekranlar.md) | **Sunumun kendisi** (Volkan 17:32): haritanın içinde 7 ekran, her biri tek cümle + tek görsel + en fazla bir rakam; PDF yedeği bu metinden |
+| [ekranlar.md](ekranlar.md) | **Sunumun kendisi** (Volkan 17:32): haritanın içinde 8 ekran (yük haritası öne, KARAR 10:16), her biri tek cümle + tek görsel + en fazla bir rakam; PDF yedeği bu metinden |
 | [slaytlar.md](slaytlar.md) | Slayt listesi: her slaytta tek iddia, rakamlar ve etiketleri; itiraz ve kaynak slaydı dahil |
 | [konusma-notu.md](konusma-notu.md) | Konuşma notu: dürüstlük cümleleri (söylenmesi zorunlu), jüri soruları ve cevap iskeleti |
 
 **Kural:** slaytta her rakamın yanında kaynak ya da etiket ([Kaynaklı: adres] / [Hesap: günlük] / [Yorum]); ROADMAP Faz 5 sınavı "rakam sayısı = etiket sayısı". Farazi şehir rakamı her yerde "gösterim". Henüz gelmeyen rakam **BEKLİYOR** diye yazılır, tahmin edilmez.
 
-**Durum (31 Ekim akşam):** iskelet; kilit grafik ([kilit_yanlis_yesil.png](kilit_yanlis_yesil.png), `python src/grafikler.py faz3 <kök> docs/sunum/ --aralik 11-20`) geldi. Canlı harita (Faz 4) ve kırmızı kuralı kararı bekleniyor. Yedekler (PDF, ekran kaydı) en son.
+**Durum (1 Kasım):** akış yük haritası öne (KARAR 10:16); rakamlar `dashboard/icerik.json` (yük: B-Y2, 41–50; panel: 31–40; üretici 1.5). Kilit grafik ([kilit_yanlis_yesil.png](kilit_yanlis_yesil.png)) 31–40 ile yeniden: `python src/kac_ev_olasilik.py <kök> --sehir N` (31…40), sonra `python src/grafikler.py faz3 <kök> docs/sunum/ --aralik 31-40` — 0/60, 24/46 (dashboard'la aynı). Canlı harita (Faz 4) bekleniyor. Yedekler (PDF, ekran kaydı) en son.
